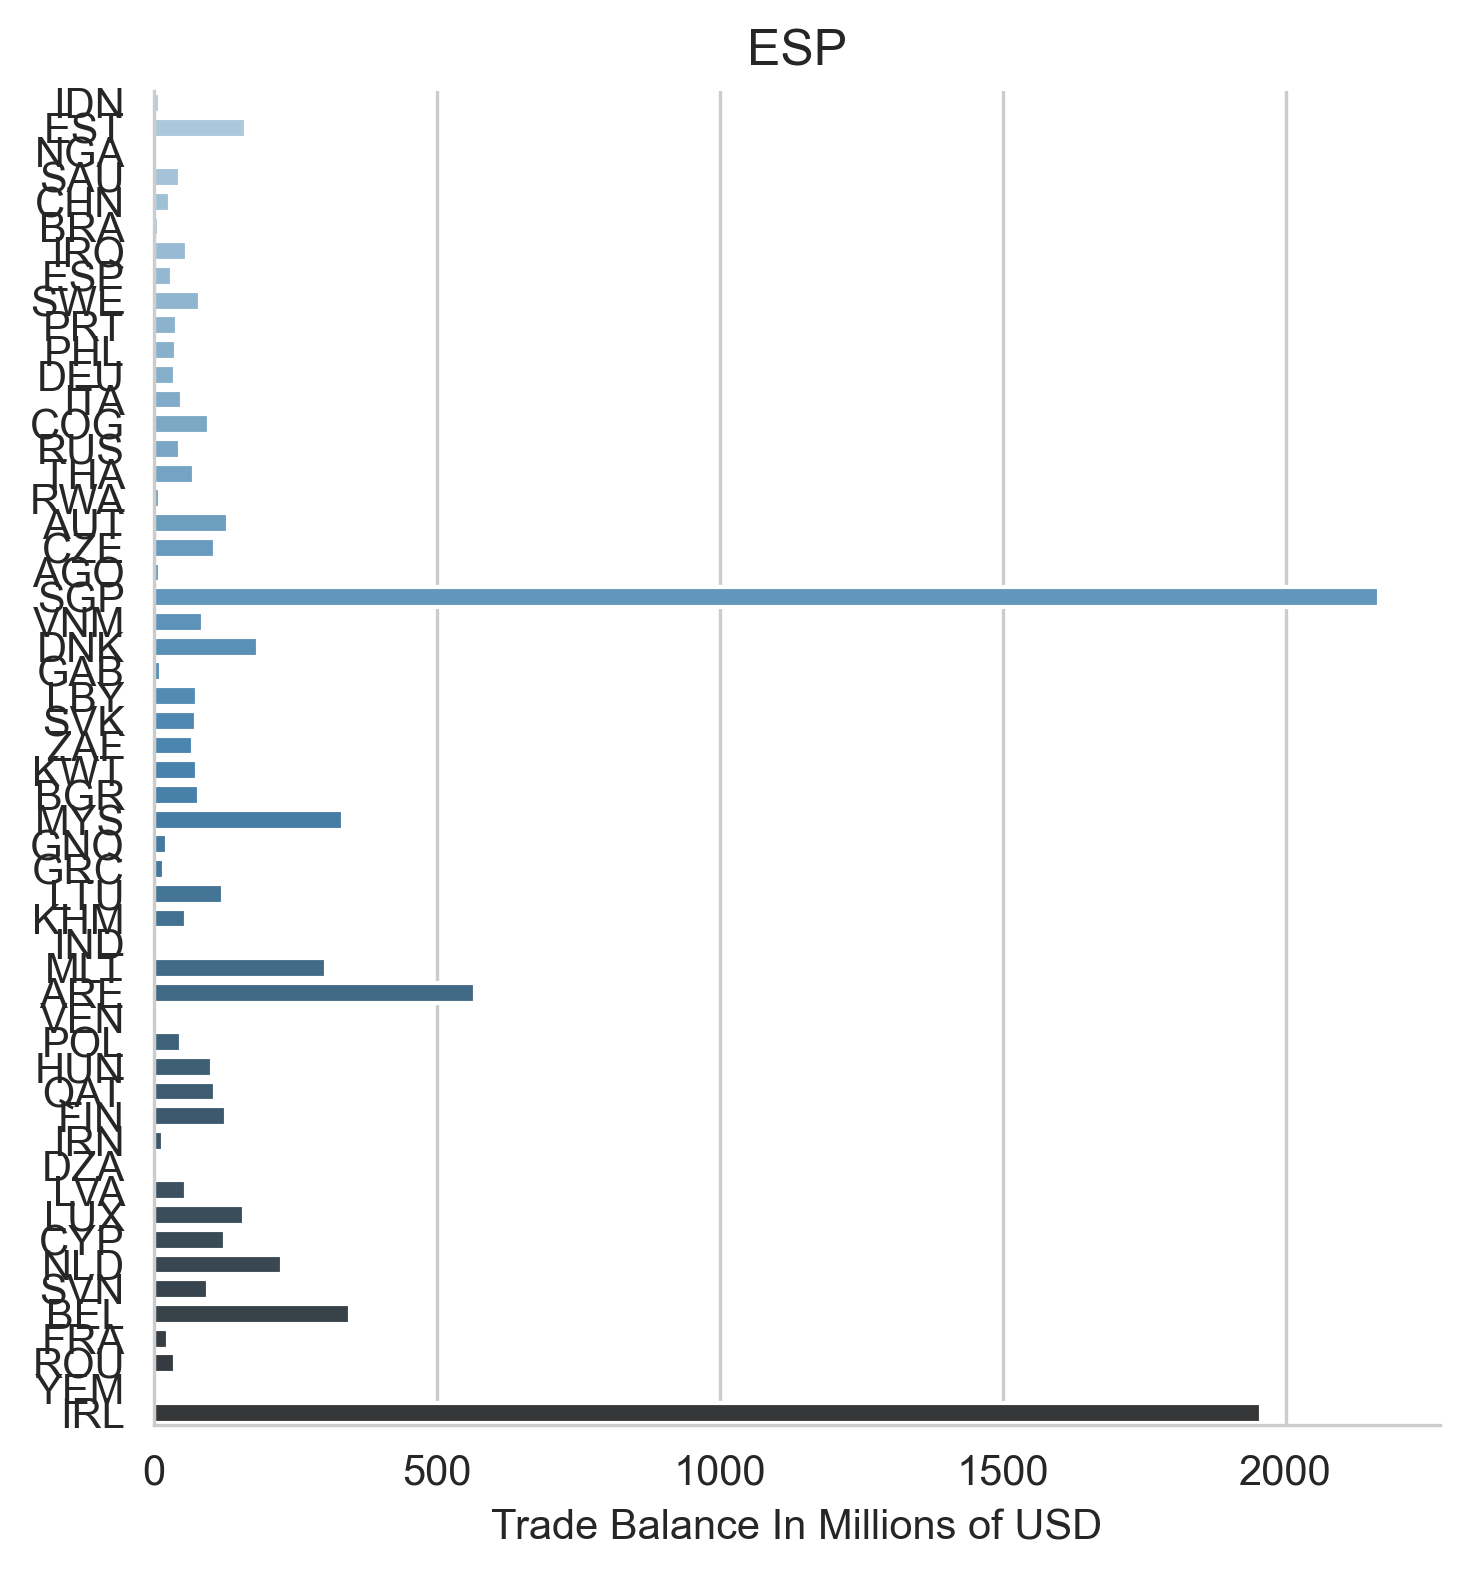
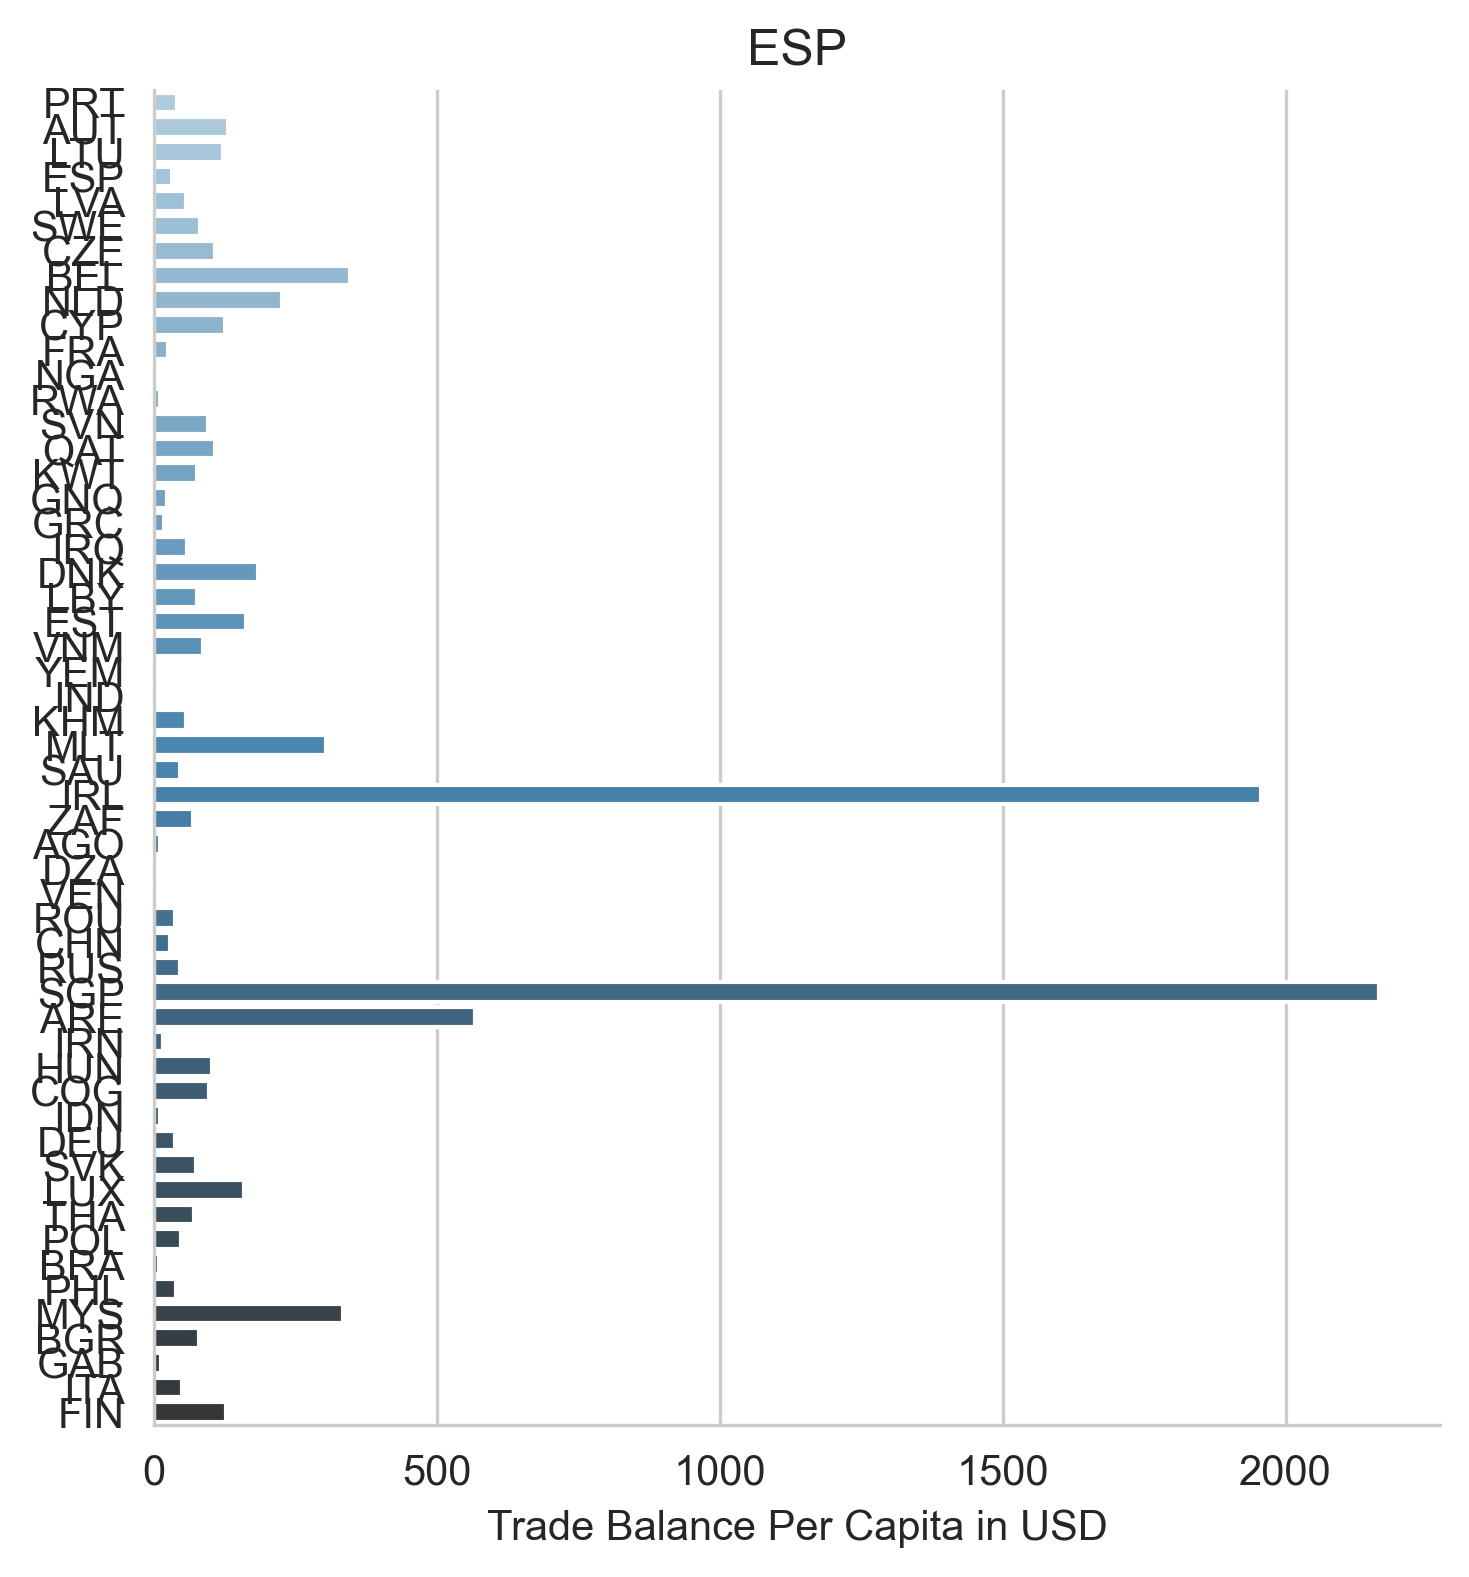
update remote

diff --git a/python/plot_treemaps_exports.py b/python/plot_treemaps_exports.py
@@ -344,11 +344,16 @@ def main():
 
     def plot_top10_partners(df, location_code):
         # Plot bar plot andsave plot as png to output folder. Use seaborn for styling
+
+        print(dir(df))
+        # Sort df by avg_trade_bal_per_capita in descending order
+        df = df.sort(by='avg_trade_bal_per_capita', reverse=True)
+
         fig, ax = plt.subplots(figsize=(5, 8))
         sns.set_style("whitegrid")
         sns.catplot(x='avg_trade_bal_per_capita', y='location_code', data=all_countries_df.to_pandas(), palette='Blues_d', kind='bar')
         plt.title(location_code)
-        plt.xlabel('Trade Balance In Millions of USD')
+        plt.xlabel('Trade Balance Per Capita in USD')
         plt.ylabel('')
         plt.savefig('../output/top10partners_all_countries_df_' + location_code + '.png', dpi=300, bbox_inches='tight')
 
